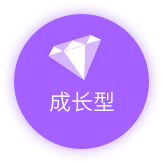
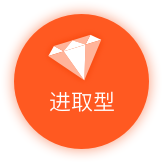
基本完成风险测评

diff --git a/src/views/home/account-manage/components/RiskEvaluation.vue b/src/views/home/account-manage/components/RiskEvaluation.vue
@@ -31,17 +31,23 @@
 
     <el-dialog
       :visible.sync="dialogVisible"
-      width="30%">
-      <img src="" alt="">
-      <span class="conclusion">恭喜您完成测评</span>
-      <span slot="footer" class="dialog-footer">
+      width="625px">
+      <p style="text-align: center">
+        <img :src="oTypeImg[userType]" alt="">
+      </p>
+      <p class="result-title-text">恭喜您完成测评</p>
+      <p class="result-footer">
         <el-button type="primary" @click="dialogVisible = false" round>确 定</el-button>
-      </span>
+      </p>
     </el-dialog>
   </div>
 </template>
 
 <script>
+  import typeImg1 from 'assets/images/risk/ico01.png';
+  import typeImg2 from 'assets/images/risk/ico02.png';
+  import typeImg3 from 'assets/images/risk/ico03.png';
+  import typeImg4 from 'assets/images/risk/ico04.png';
   import HthPanel from 'common/Panel/index.vue';
   import { fetchGetQuestionnaire, fetchSubmitQuestionnaire } from 'api/home/account-set';
 
@@ -51,6 +57,13 @@
     },
     data() {
       return {
+        oTypeImg: {
+          A1: typeImg1,
+          B1: typeImg2,
+          C1: typeImg3,
+          D1: typeImg4
+        },
+        userType: 'A1',  // 用户的风险测评类型
         queryData: {
           warehouseId: null
         },
@@ -65,7 +78,7 @@
             console.dir(res);
             if (res.data.meta.code === 200) {
               this.queryData.warehouseId = res.data.data.id;
-              this.questionnaireData = res.data.data;
+              this.questionnaireData = res.data.data; // 题目列表数据
               console.dir(res.data);
             } else {
               console.error(res.meta.code + ':' + res.meta.message);
@@ -80,12 +93,13 @@
             if (res.status === 200) {
               return res.data;
             } else {
-              console.error('接口调用不成功');
+              console.error('获取风险测评结果接口，调用不成功');
             }
           })
           .then(data => {
             if (data.meta.code === 200) {
-              console.log('先别管别的，反正是调用成功了');
+              this.userType = data.riskLevel;
+              this.$store.commit('SET_IS_JOIN_RISK_ASSESSMENT', true);
               this.dialogVisible = true;
             } else {
               console.error(data.meta.code + ':' + data.meta.message)
@@ -120,29 +134,49 @@
     }
 
     .submit-btn:hover {
-      color: #66b1ff;
+      background: #66b1ff;
     }
-  }
 
-  .risk-description {
-    text-indent: 2em;
-  }
+    .risk-description {
+      text-indent: 2em;
+    }
 
-  .question-box {
-    margin-bottom: 25px;
-    text-indent: 2em;
-  }
+    .question-box {
+      margin-bottom: 25px;
+      text-indent: 2em;
+    }
 
-  .q-spacing {
-    margin: 10px 0 0;
-    text-indent: 2em;
-  }
+    .q-spacing {
+      margin: 10px 0 0;
+      text-indent: 2em;
+    }
 
-  .conclusion {
-    display: block;
-    margin: 36px 0 34px;
-    text-align: center;
-    font-size: 20px;
-    color: #7c86a2;
+    .conclusion {
+      display: block;
+      margin: 36px 0 34px;
+      text-align: center;
+      font-size: 20px;
+      color: #7c86a2;
+    }
+
+    .result-title-text {
+      margin: 13px 0 20px;
+      font-size: 20px;
+      color: #7c86a2;
+      text-align: center;
+    }
+
+    .result-footer {
+      text-align: center;
+
+      .el-button--primary {
+        width: 187px;
+        font-size: 18px;
+      }
+    }
+
+    .el-dialog__title {
+      display: none;
+    }
   }
 </style>

diff --git a/src/store/modules/user.js b/src/store/modules/user.js
@@ -27,9 +27,9 @@ function getNovicePlanStatus(data) {
   let status = null;
   if (data.isNovice) { // 新用户
     status = 1;
-  } else if (data.isJoinNovicePlan) {
+  } else if (data.isJoinNovicePlan) { // 老用户加入新手计划
     status = 2;
-  } else {
+  } else {  // 老用户未加入新手计划
     status = 3;
   }
 
@@ -178,8 +178,8 @@ const user = {
             commit('SET_NOVICE_PLAN_STATUS', getNovicePlanStatus(data));
             commit('SET_IS_BORROWER', isBorrower(data));
             commit('SET_IS_OPEN_ACCOUNT', data.isOpenAccount);
-            commit('SET_IS_JOIN_RISK_ASSESSMENT', data.isOpenAccount);
-            commit('SET_IS_TRANSACTION_PASSWORD', data.isJoinRiskAssessment);
+            commit('SET_IS_JOIN_RISK_ASSESSMENT', data.isJoinRiskAssessment);
+            commit('SET_IS_TRANSACTION_PASSWORD', data.isTransactionPassword);
             commit('SET_IS_BANK_CARD', !!data.bankCard);
             commit('SET_IS_AUTOMATIC_BIDDING', data.isAutoBidAuth);
             commit('SET_IS_AUTOMATIC_DEBT_TRANSFER', data.isAutoInvestAuth);
